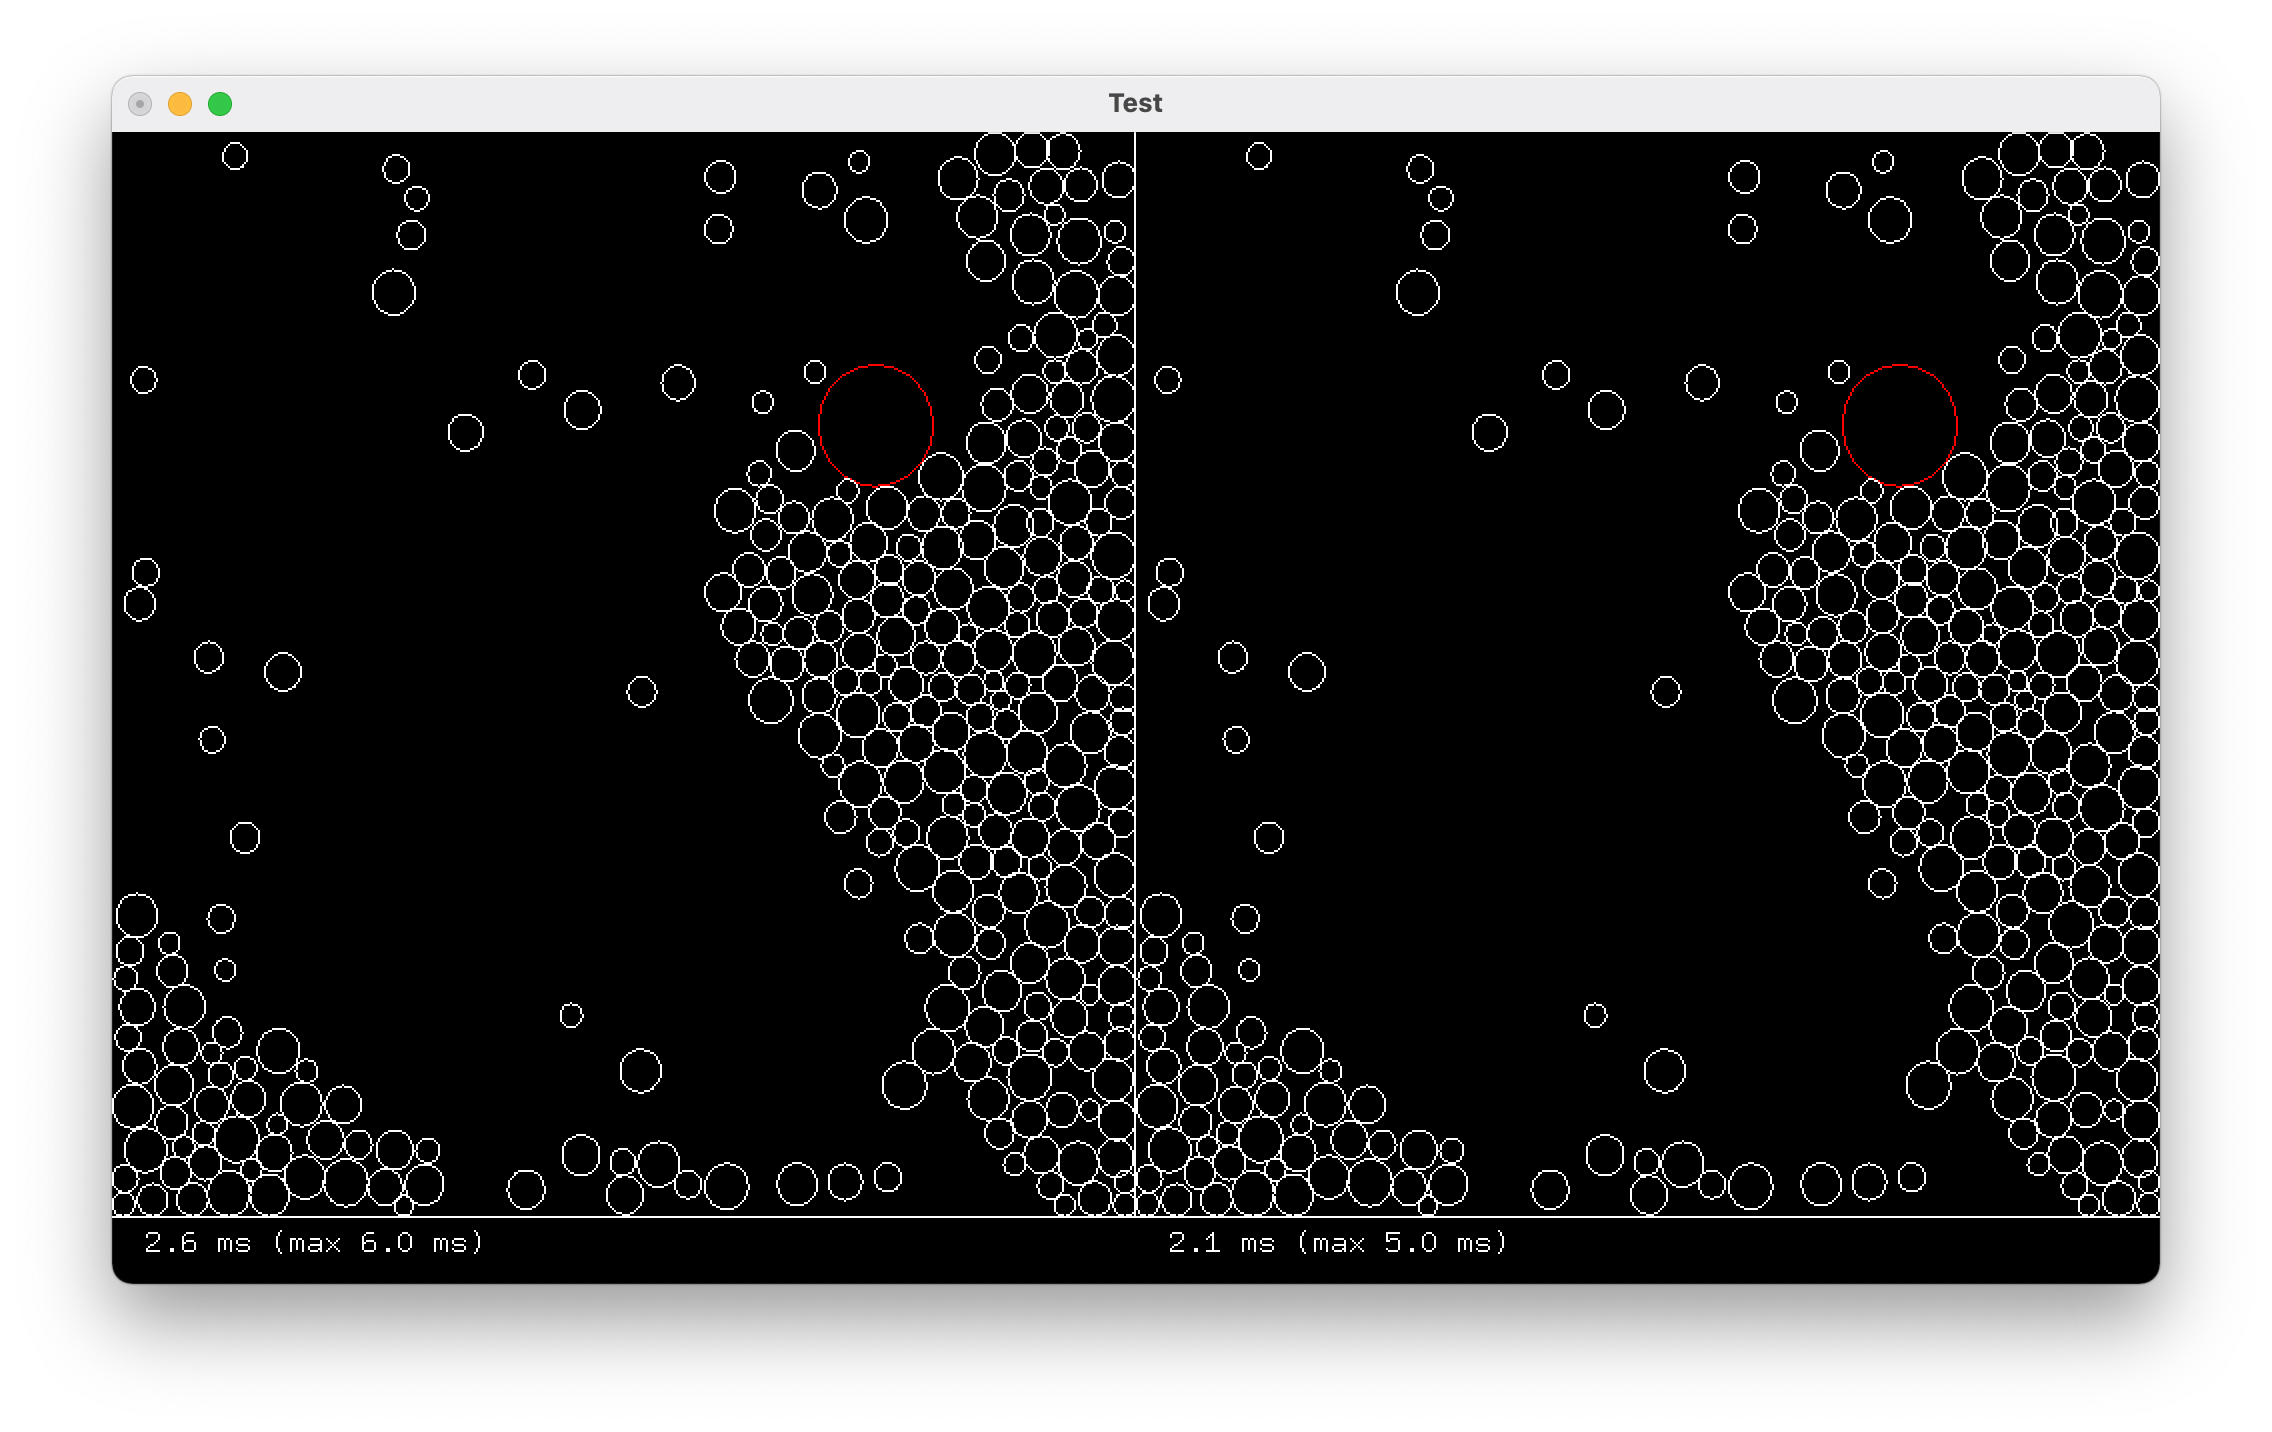
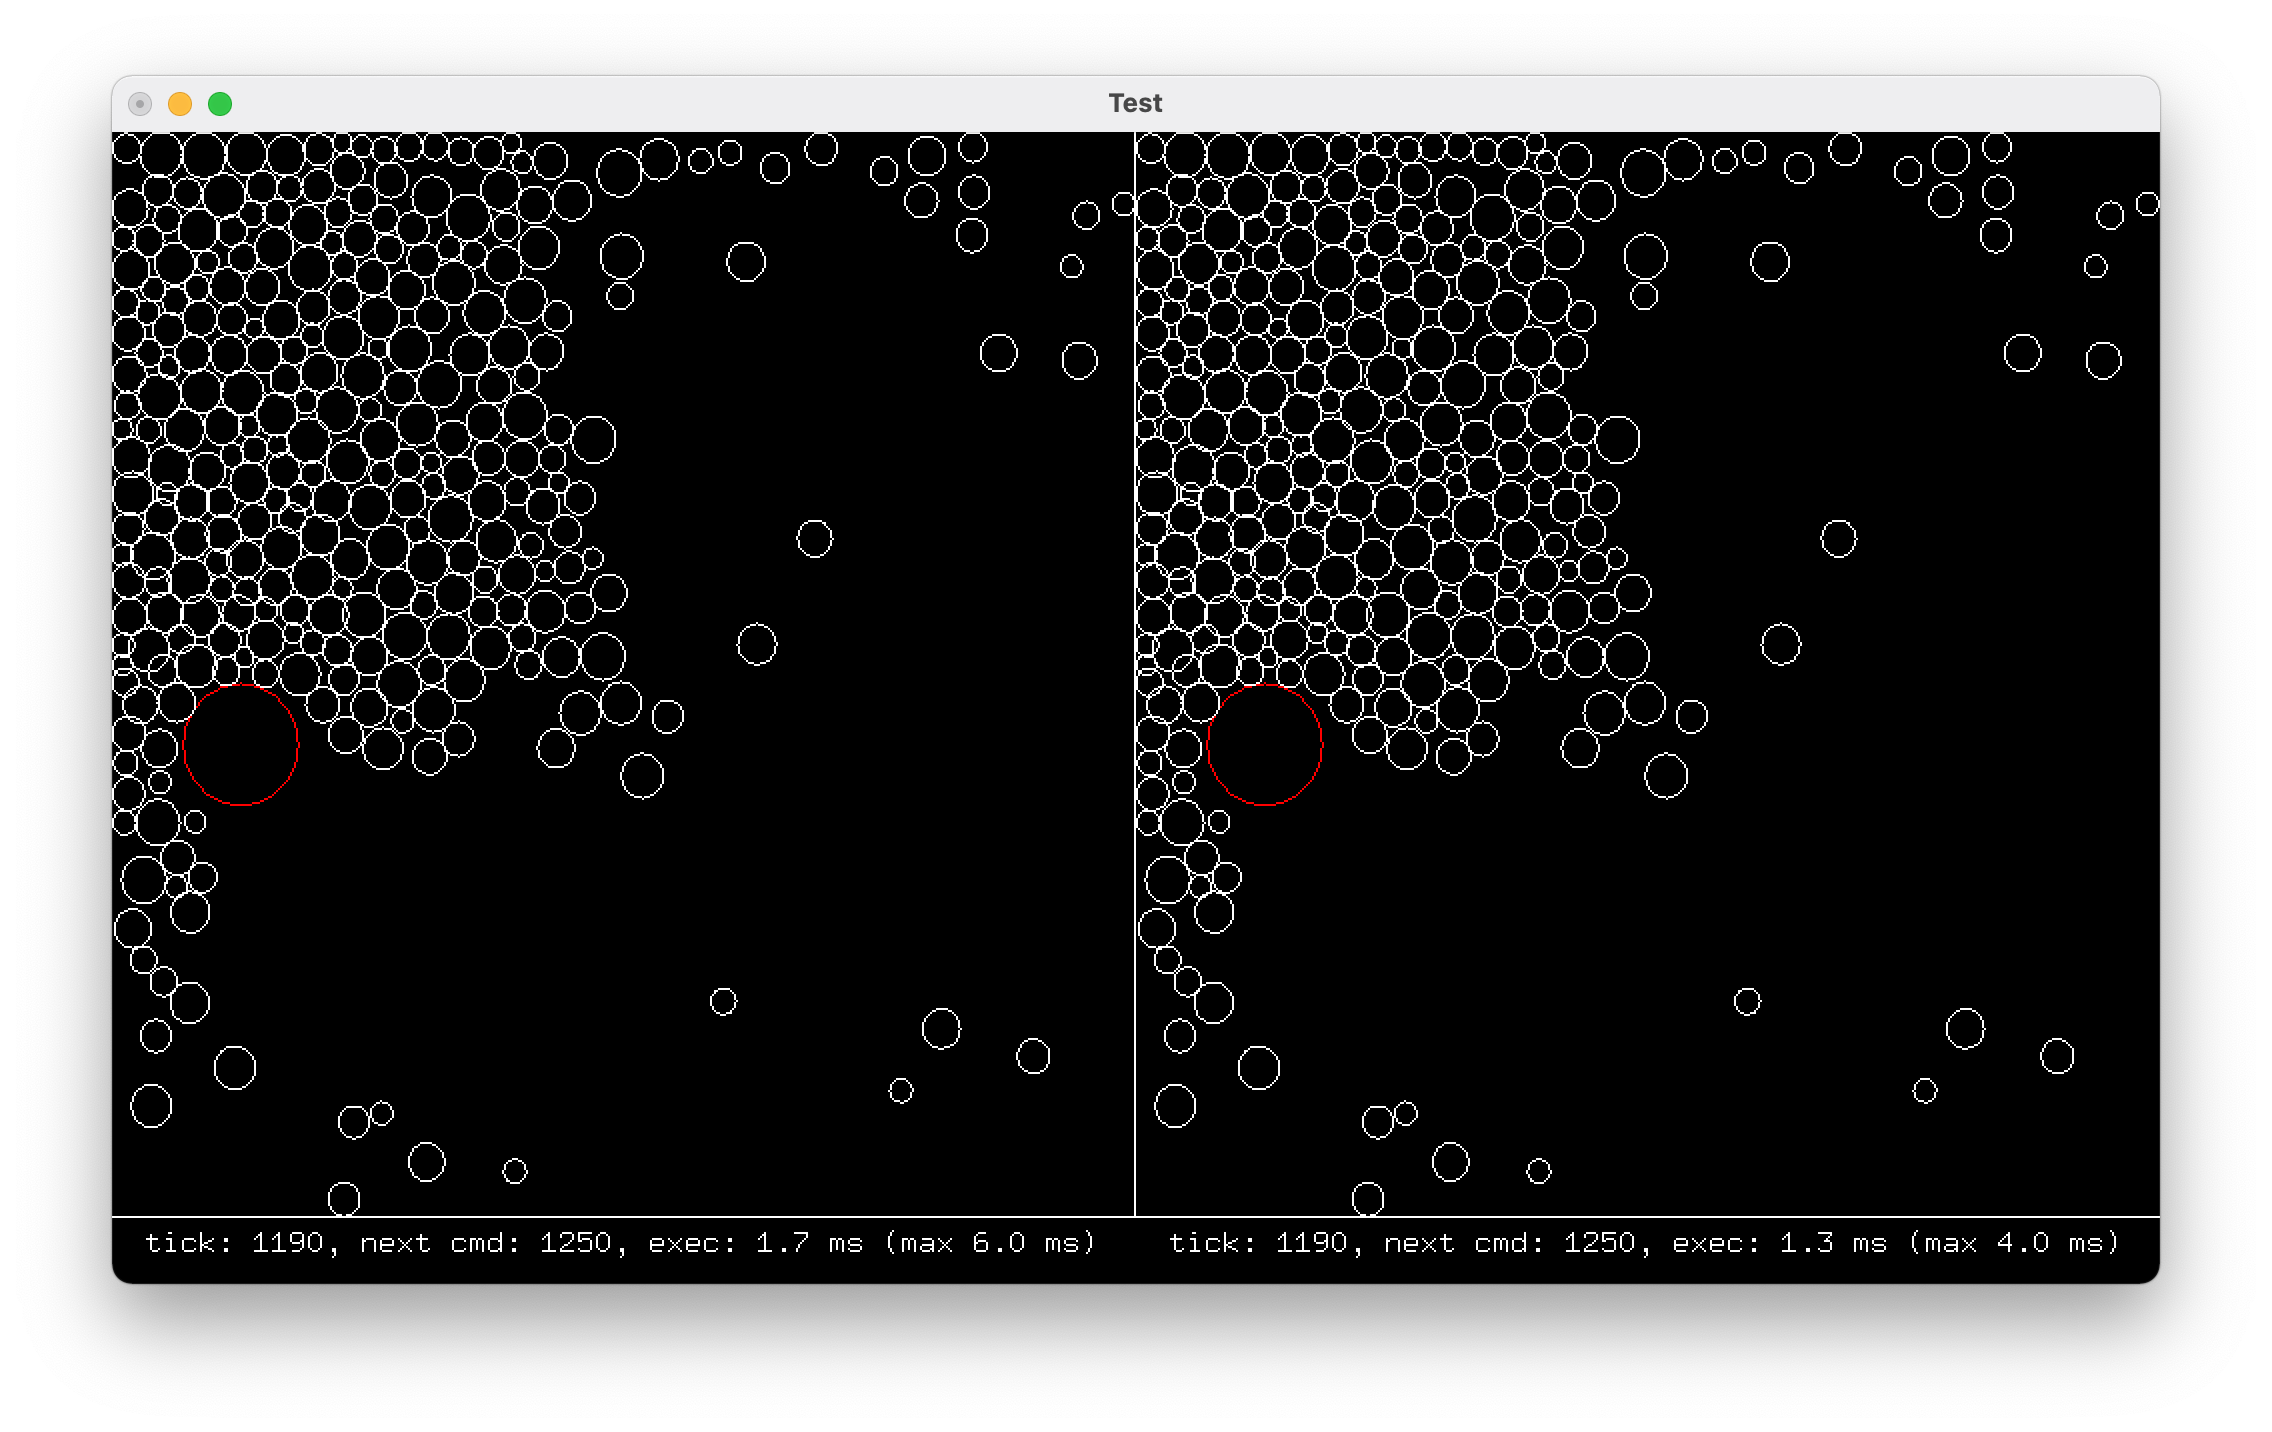
Tweaks

diff --git a/physicsTest/Rendering.cpp b/physicsTest/Rendering.cpp
@@ -94,11 +94,13 @@ void Rendering::render(int ms)
     glEnd();
     
     std::stringstream text;
-    text << "tick: " << simulation1->getTick() << ", exec: " << setprecision(1) << std::fixed << simulation1->getStableMs()<< " ms (max " << simulation1->getMaxMs() << " ms)";
+    text << "tick: " << simulation1->getTick() << ", next cmd: " << simulation1->getNextCommandTick() << ", exec: "
+        << setprecision(1) << std::fixed << simulation1->getStableMs()<< " ms (max " << simulation1->getMaxMs() << " ms)";
     drawString(-31, -17, text.str());
 
     std::stringstream text2;
-    text2 << "tick: " << simulation2->getTick() << ", exec: " << setprecision(1) << std::fixed << simulation2->getStableMs() << " ms (max " << simulation2->getMaxMs() << " ms)";
+    text2 << "tick: " << simulation2->getTick() << ", next cmd: " << simulation2->getNextCommandTick() << ", exec: "
+        << setprecision(1) << std::fixed << simulation2->getStableMs() << " ms (max " << simulation2->getMaxMs() << " ms)";
     drawString(1, -17, text2.str());
     
     if (simulation2->isRollingBack())

diff --git a/physicsTest/main.cpp b/physicsTest/main.cpp
@@ -90,7 +90,7 @@ void Init()
     for (int i = 0; i < 500; i++)
     {
         int tick = i * 50;
-        Vec velocity((rand() % 700) - 350, (rand() % 700) - 350);
+        Vec velocity((rand() % 1200) - 600, (rand() % 1200) - 600);
         Command* c1 = new Command(0, tick, velocity);
         Command* c2 = new Command(0, tick, velocity);
         simulation1->getCommands()->push_back(c1);

diff --git a/physicsTest/Simulation.cpp b/physicsTest/Simulation.cpp
@@ -73,6 +73,18 @@ void Simulation::runCommands(int tick)
     }
 }
 
+int Simulation::getNextCommandTick()
+{
+    int tick = 0;
+    if (commandIterator != commands.end())
+    {
+        commandIterator++;
+        tick = (*commandIterator)->getTick();
+        commandIterator--;
+    }
+    return tick;
+}
+
 void Simulation::processUnits()
 {
     for (auto unit : units)

diff --git a/physicsTest/Simulation.hpp b/physicsTest/Simulation.hpp
@@ -28,6 +28,7 @@ public:
     float getStableMs() { return stableMs; }
     float getMaxMs() { return maxMs; }
     float getFrameFraction(int ms);
+    int getNextCommandTick();
     
 private:
     struct Snapshot

diff --git a/README.md b/README.md
@@ -1,4 +1,4 @@
-# Deterministic physics test, using fixed point vectors 
+# Deterministic physics test, using simple fixed point vectors 
 Runs 2 instances with the same initial data set in parallel<br/>
-Hobby project from 2016, quick and dirty code<br/>
+Deliberately desyncs at intervals, causing rollbacks<br/>
 ![image](screenshot.png)
